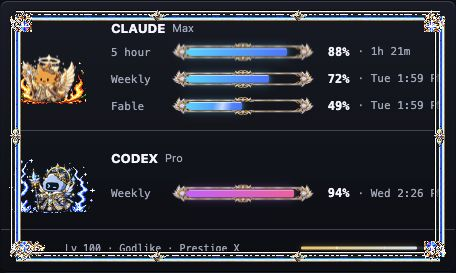
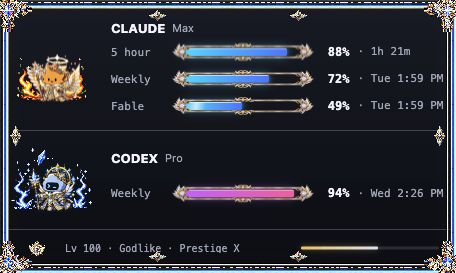
fix: align generated frames to widget edges

Changed region(s): [[0.0, 0.0, 1.0, 1.0], [0.3991, 0.3516, 0.5219, 0.4103]]

diff --git a/src/styles.css b/src/styles.css
@@ -425,7 +425,7 @@ body {
 .aura {
   position: absolute;
   z-index: 1;
-  top: calc(50% - 8px);
+  top: calc(50% - 12px);
   left: 50%;
   width: 96px;
   height: 96px;
@@ -880,13 +880,13 @@ body {
 }
 
 .frame-rail--top {
-  top: 8px;
+  top: -4px;
   --frame-rank-piece: var(--frame-rank-rail-top);
   --frame-prestige-piece: var(--frame-prestige-rail-top);
 }
 
 .frame-rail--bottom {
-  bottom: 8px;
+  bottom: -4px;
   --frame-rank-piece: var(--frame-rank-rail-bottom);
   --frame-prestige-piece: var(--frame-prestige-rail-bottom);
 }
@@ -901,13 +901,13 @@ body {
 }
 
 .frame-rail--right {
-  right: 8px;
+  right: -4px;
   --frame-rank-piece: var(--frame-rank-rail-right);
   --frame-prestige-piece: var(--frame-prestige-rail-right);
 }
 
 .frame-rail--left {
-  left: 8px;
+  left: -4px;
   --frame-rank-piece: var(--frame-rank-rail-left);
   --frame-prestige-piece: var(--frame-prestige-rail-left);
 }
@@ -932,6 +932,22 @@ body {
 
 #perimeter[data-prestige]:not([data-prestige="0"]) .frame-corner {
   background-image: var(--frame-prestige-corner-piece, none);
+}
+
+#perimeter[data-prestige]:not([data-prestige="0"]) .frame-corner--tl {
+  background-position: bottom right;
+}
+
+#perimeter[data-prestige]:not([data-prestige="0"]) .frame-corner--tr {
+  background-position: bottom left;
+}
+
+#perimeter[data-prestige]:not([data-prestige="0"]) .frame-corner--bl {
+  background-position: top right;
+}
+
+#perimeter[data-prestige]:not([data-prestige="0"]) .frame-corner--br {
+  background-position: top left;
 }
 
 .frame-corner--tl {
@@ -1109,6 +1125,30 @@ body {
 .frame-corner--br::after {
   -webkit-mask-position: bottom right;
   mask-position: bottom right;
+}
+
+#perimeter[data-prestige]:not([data-prestige="0"])
+  .frame-corner--tl::after {
+  -webkit-mask-position: bottom right;
+  mask-position: bottom right;
+}
+
+#perimeter[data-prestige]:not([data-prestige="0"])
+  .frame-corner--tr::after {
+  -webkit-mask-position: bottom left;
+  mask-position: bottom left;
+}
+
+#perimeter[data-prestige]:not([data-prestige="0"])
+  .frame-corner--bl::after {
+  -webkit-mask-position: top right;
+  mask-position: top right;
+}
+
+#perimeter[data-prestige]:not([data-prestige="0"])
+  .frame-corner--br::after {
+  -webkit-mask-position: top left;
+  mask-position: top left;
 }
 
 #perimeter[data-prestige="7"] .frame-rail::after,
